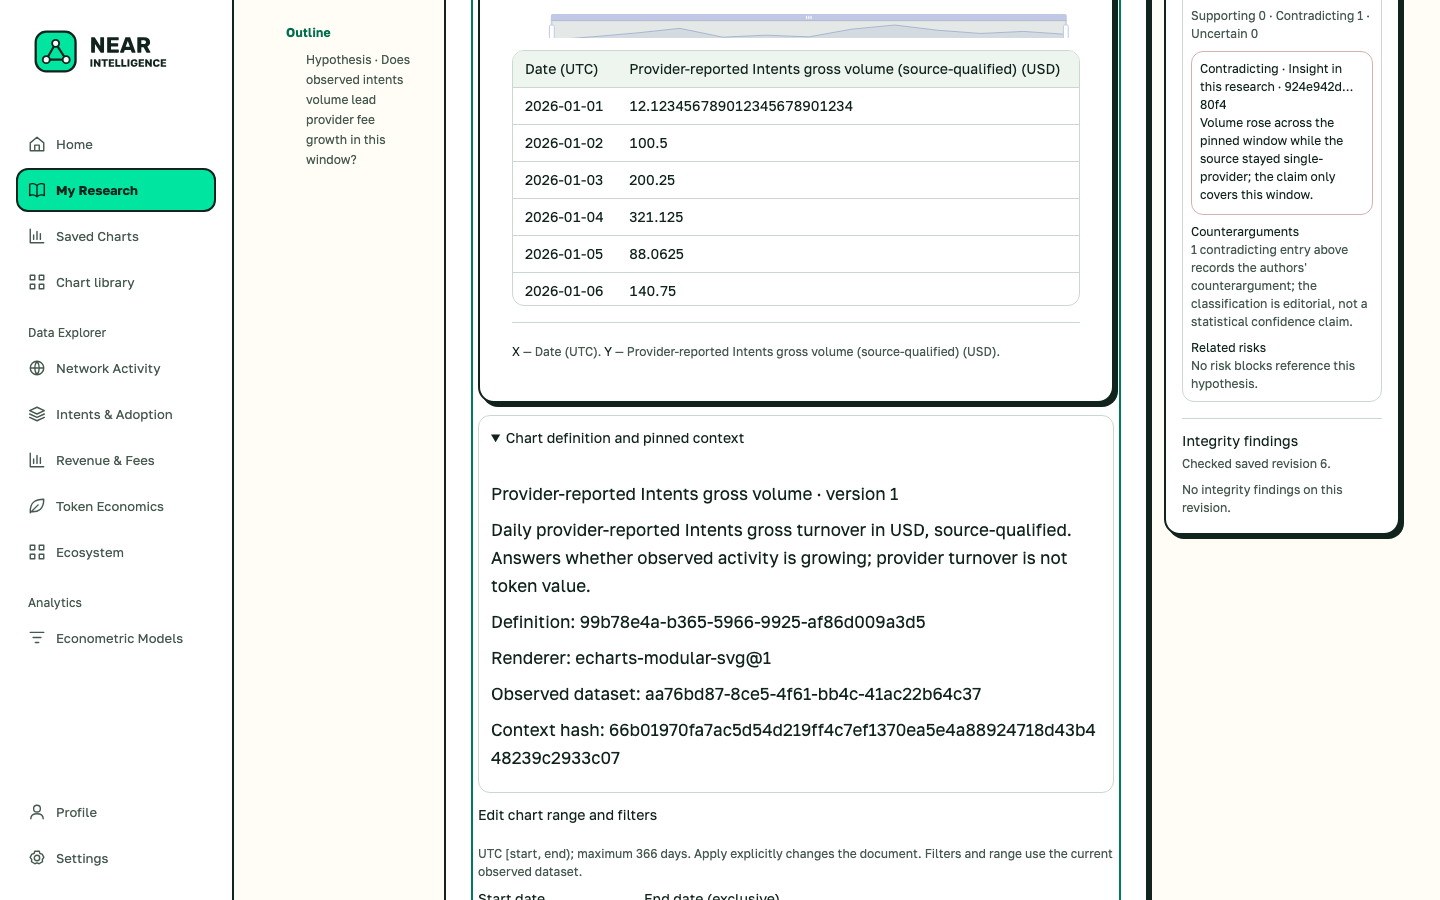
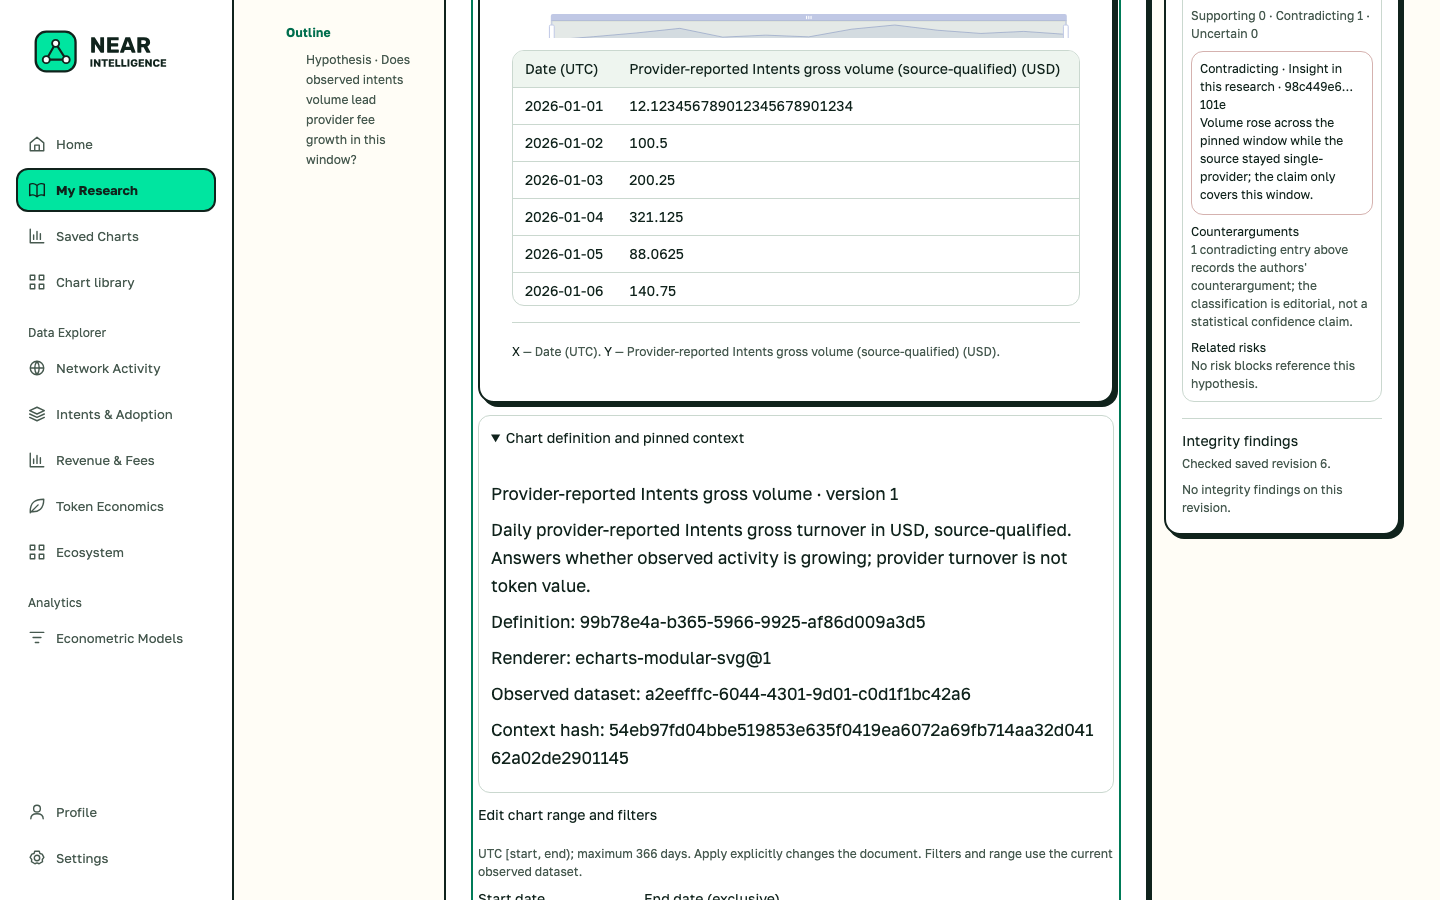
fix(web): keep Comic Lab editor above the desktop fold

Changed region(s): [[0.3438, 0.7467, 0.75, 0.8711], [0.9062, 0.0933, 0.9375, 0.1244]]

diff --git a/apps/web/src/features/editor/editor-shell.tsx b/apps/web/src/features/editor/editor-shell.tsx
@@ -743,7 +743,7 @@ export function EditorShell({ documentId, title, revision, updatedAt,
       saved={controller.status.kind === "clean"} revision={controller.revision} onObserve={recordObservation}
       onInsightAction={controller.draft ? undefined : openInsight} onHypothesisAction={controller.draft ? undefined : openHypothesis}
       onEvidenceAction={controller.draft ? undefined : openEvidence}>
-    <div className="flex flex-col gap-4" data-testid="editor-workbench">
+    <div className="flex flex-col gap-2" data-testid="editor-workbench">
       <p aria-live="polite" role="status" data-testid="editor-announcement" className="sr-only">
         {announcement}
       </p>

diff --git a/docs/verification/ni-099/README.md b/docs/verification/ni-099/README.md
@@ -32,10 +32,10 @@ Commands use Node 24.22.2 and the repository-pinned pnpm 12.16.1 through Corepac
 | `pnpm check:contrast` | 28 role pairs passed, including secondary text on both colored notes |
 | `pnpm check:contracts` | OpenAPI and generated TypeScript are current |
 | `pnpm check:client-secrets` | Exit 0, explicitly reports no root `.env` configured / nothing to scan; this is not a scan of production credentials |
-| Desktop browser journeys | 16 / 16 passed in 4.8 minutes; Chromium, 1440×900, one worker, no retries |
+| Desktop browser journeys | Full suite: 25 passed / one existing intentional skip in 3.2m; Chromium desktop, one worker, no retries |
 | Documentation links / whitespace | Passed; final link count recorded in the task card; `git diff --check` clean |
 
-The full unit suite passed before the final CSS-only secondary-color correction. That correction is covered by the final contrast check, production rebuild and browser scans. The final test-helper edits are covered by strict TypeScript, lint and the final desktop journeys.
+The full unit suite passed before the final CSS-only secondary-color correction. That correction is covered by the final contrast check, production rebuild and browser scans. The final test-helper edits are covered by strict TypeScript, lint and the final desktop journeys. The subsequent editor-only spacing correction is covered by a fresh production build, focused ESLint and the complete desktop suite.
 
 ### Browser → API → database → export
 
@@ -59,11 +59,12 @@ Manual Chrome inspection additionally confirmed the real rendered logo/TRACE, lo
 
 1. Real axe found secondary text on lavender at 4.03:1. Darkened the shared secondary token to `#46594F`, producing 4.98:1 on lavender and 5.86:1 on yellow; added both pairs to the contrast gate. No axe rule was disabled.
 2. The long research journey assumed one autosave per user step and failed when normal typing produced revision 4 before it observed revision 3. The test now captures each acknowledged saved revision, requires subsequent mutations to advance it, and compares the exact final revision and hash with both the database and exported manifest. Full typed prose, including outage-time prose, remains required in the downloaded bundle. Production autosave behavior was not changed.
-3. The layered button regression now expects the approved `action`/`on-action` roles instead of the superseded dark-accent fill. It still checks actual computed foreground/background colors.
+3. Full GitHub CI found that the long-title performance fixture placed the paper at 397 px, violating its existing <386 px threshold. Reduced workbench gaps from 16 to 8 px; the unchanged D5 test now measures 381 px, with 519 px of paper visible. A new local full-suite run 25 passed, one skipped. The existing D4 skip predates this task and records NI-096 removal of the Save-chart action; no new skip or weakened threshold was added.
+4. The layered button regression now expects the approved `action`/`on-action` roles instead of the superseded dark-accent fill. It still checks actual computed foreground/background colors.
 
 ## Review locally
 
-The live review stack was left running at `http://127.0.0.1:55168/`; cabinet entry is `/login`. Use an arbitrary example email label and “Enter demo workspace”; the existing demo flow creates a separate private visitor. This local stack uses the existing saved archive import for historical charts and the original 90-day cohort; it also retains the clearly identified harness/performance fixtures. It is not a restored production database and does not claim a published real model where none is staged.
+The live review stack was left running at `http://127.0.0.1:51574/`; cabinet entry is `/login`. Use an arbitrary example email label and “Enter demo workspace”; the existing demo flow creates a separate private visitor. This local stack uses the existing saved archive import for historical charts and the original 90-day cohort; it also retains the clearly identified harness/performance fixtures. It is not a restored production database and does not claim a published real model where none is staged.
 
 To recreate this native preview after stopping it, build first, then run from the checkout with the existing local archive root:
 
@@ -80,9 +81,7 @@ NI_RESEARCH_ARCHIVE_ROOT=/path/to/approved/local/research \
 The handoff prints newly selected loopback ports. This command uses an existing authorized local archive; it does not fetch provider data. Automated fixture-only reproduction omits `NI_RESEARCH_ARCHIVE_ROOT` and runs:
 
 ```sh
-corepack pnpm --filter web exec playwright test --config e2e/playwright.config.ts \
-  research-workflow.spec.ts workspace-demo.spec.ts \
-  accessibility/axe-core-surfaces.spec.ts accessibility/keyboard-navigation.spec.ts
+corepack pnpm --filter web exec playwright test --config e2e/playwright.config.ts
 ```
 
 ## Screenshots
@@ -91,6 +90,7 @@ corepack pnpm --filter web exec playwright test --config e2e/playwright.config.t
 - [Workspace Home](comic-lab-workspace.png)
 - [Chart detail](comic-lab-chart.png)
 - [Editor, saved pinned context and integrity](comic-lab-editor.png)
+- [Editor layout with a long title](comic-lab-editor-layout.jpg)
 - [Sign in](comic-lab-login.png)
 
 Screenshots come from the passing production-build desktop tests; financial values and author documents in them are synthetic fixtures. Raw archive inputs, database files, sessions, traces and local process state are excluded from Git.
@@ -99,4 +99,4 @@ Screenshots come from the passing production-build desktop tests; financial valu
 
 No backend/schema/provider change, new collection, mobile adaptation, merge or deployment. Existing unrelated active tasks remain assigned as before. Real Supabase credential entry, a remote environment, all production data/model completeness and a new PDF-layout acceptance run are outside this desktop identity task. The existing frozen export/render contracts were retained and the ZIP research workflow was actually exercised as recorded above.
 
-Code/asset/test content digest (sorted changed `apps/web` paths and bytes, excluding generated files): f39226232953b704e64ecaac8747347603735ec30b883e94b618e9524d906879.
+Code/asset/test content digest (sorted changed `apps/web` paths and bytes, excluding generated files): 40bffa695d78458b309bc9473a70c6c9055c4725cebc1dfa9eae8f59bbec92b8.

diff --git a/docs/TASKS.md b/docs/TASKS.md
@@ -3036,7 +3036,12 @@ Specification: [DEPLOYMENT.md](DEPLOYMENT.md).
 **Testing requirements:** Lint, strict TS, relevant/full web unit tests, production build, contrast and client-secret checks, affected chart/editor/navigation checks, and desktop public/private browser journeys. Verify actual saved-chart/document save/reopen/export where local inputs permit; run two-user checks if private behavior changes. Record fixture versus real-data scope. Independent review skipped under the existing 9 November instruction; coordinator acceptance remains mandatory.
 
 - **Result:** Implemented canonical graph wordmark/favicon and approved TRACE, same-origin licensed Rubik/Golos Text/IBM Plex Mono, mint/ivory/ink shared tokens and outlined controls/panels across the current desktop application. Restyled Home/checklist, public/auth and chart/model/editor/share views; added the existing Chart library destination to cabinet navigation. Preserved API/auth/ownership, metric logic, editor schema, revision pins, scientific renderer and frozen export palette. Updated design/IA/screen documentation and asset/license provenance.
-- **Verification:** Final production build, strict TypeScript and lint pass (four existing unused-variable warnings); full web unit suite 66 files / 682 tests pass. Final contrast gate passes 28 role pairs. OpenAPI/generated client unchanged. Final desktop production-stack journeys: 16/16 pass, 4.8 minutes, 1440×900, one worker/no retries. Real API/PG/RLS/worker verify pinned exact values, save/reopen, source-outage behavior, ZIP manifest/member hashes and two-user denial; provider transport/data in automated tests are synthetic and labeled. Axe reports zero serious/critical and no lower-impact findings on scanned surfaces; keyboard/focus/sidebar checks pass. 1083 relative doc links and whitespace pass. Client-secret command exits0 with no root .env / nothing to scan. Evidence and five screenshots: [NI-099 report](verification/ni-099/README.md).
+- **Verification:** Final production build, strict TypeScript and lint pass (four existing unused-variable warnings); full web unit suite 66 files / 682 tests pass. Final contrast gate passes 28 role pairs. OpenAPI/generated client unchanged. Final desktop production-stack journeys: 16/16 pass, 4.8 minutes, 1440×900, one worker/no retries. Real API/PG/RLS/worker verify pinned exact values, save/reopen, source-outage behavior, ZIP manifest/member hashes and two-user denial; provider transport/data in automated tests are synthetic and labeled. Axe reports zero serious/critical and no lower-impact findings on scanned surfaces; keyboard/focus/sidebar checks pass. 1085 relative doc links and whitespace pass. Client-secret command exits0 with no root .env / nothing to scan. Evidence and five screenshots: [NI-099 report](verification/ni-099/README.md).
 - **Coordinator review:** Actual native Chrome desktop inspection covers login/demo Home, editor, historical Intents charts and the final rebuilt Home. Found/fixed secondary-copy contrast on lavender (4.03→4.98:1), expanded the contrast gate, and fixed the existing research E2E's autosave revision-count race while retaining exact DB/export revision/hash checks and requiring full outage prose. Dedicated task agent implemented; root reviewed and verified. Independent second acceptance remains waived under the existing owner instruction.
-- **Local preview / limits:** Production-build local preview left running at http://127.0.0.1:55168 with saved historical archive/cohort imported into a disposable DB. This is not restored production state or a real-provider login/model completeness acceptance. No raw archive, credentials, local state, mobile work, backend/schema/collection changes, merge or deployment. Deliver the branch as a reviewable PR; owner controls merge.
+- **Local preview / limits:** Production-build local preview left running at http://127.0.0.1:51574 with saved historical archive/cohort imported into a disposable DB. This is not restored production state or a real-provider login/model completeness acceptance. No raw archive, credentials, local state, mobile work, backend/schema/collection changes, merge or deployment. Deliver the branch as a reviewable PR; owner controls merge.
 - **Completed at:** 2026-11-22T01:21:27+03:00
+
+- **Reopened for CI acceptance:** 2026-11-22T13:55:10+03:00; full GitHub desktop suite passed24/skipped1 but D5 found paper top397px above the preserved <386px limit. Coordinator tightens workbench spacing and re-runs the unchanged acceptance threshold; no data/auth behavior change.
+
+- **CI correction result:** Preserved the D5 <386px gate and compacted workbench spacing; actual paper top 381px / visible 519px at1440×900. Fresh production build and focused editor ESLint pass; full local desktop suite passes25/skips1 existing D4, 3.2m, one worker/no retries. Includes sharing/custom-range/viewport/table scenarios beyond the earlier16-case pass. Six screenshots in the report; final preview http://127.0.0.1:51574. No API or data logic changed.
+- **Follow-up completed at:** 2026-11-22T14:00:50+03:00
